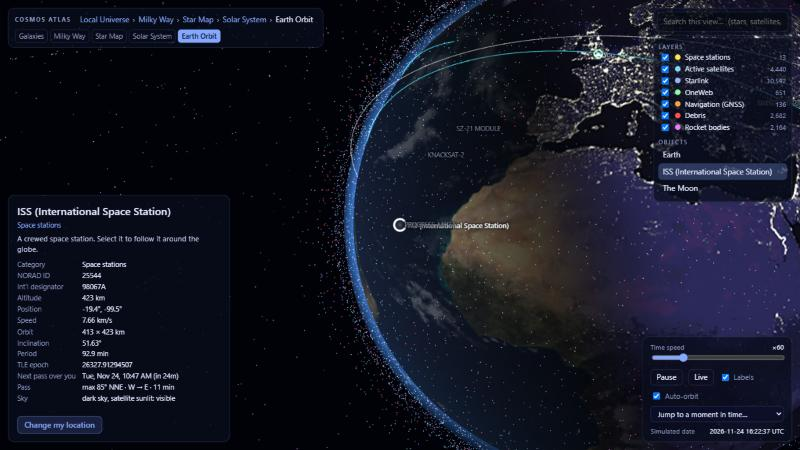
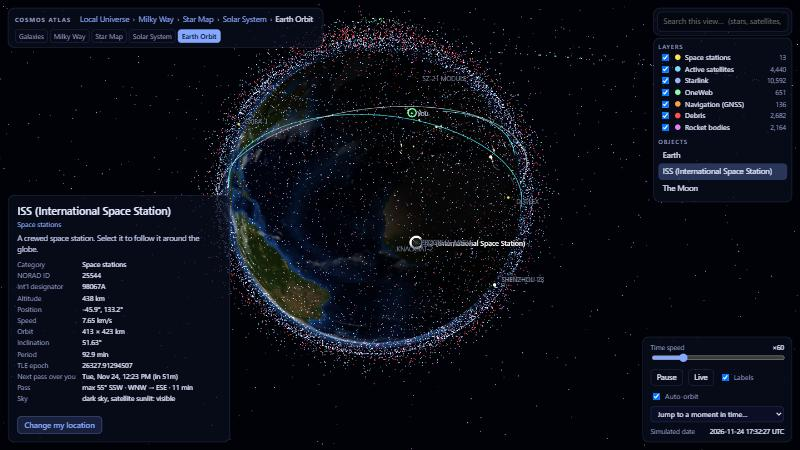
docs: credit NASA for the textures and refresh the Earth screenshot
The README no longer calls the textures unverified placeholders. The Earth
screenshot is retaken so it shows the new imagery.

diff --git a/README.md b/README.md
@@ -131,14 +131,15 @@ server at run time and cached locally.
 - Planet positions: JPL approximate Keplerian elements (1800-2050)
 - Constellation figures: Stellarium's "modern" sky culture
 - Satellite propagation: [satellite.js](https://github.com/shashwatak/satellite-js); rendering: [three.js](https://threejs.org)
-- The four Earth and Moon textures in `public/assets/tex/` were copied from the [three.js examples](https://github.com/mrdoob/three.js/tree/r160/examples/textures/planets).
-  three.js licenses its code under MIT but records no licence or source for these images, so their terms are
-  **unverified** and not covered by this repository's MIT licence. They are placeholders: if you are the rights
-  holder and want one removed, open an issue. The plan is to replace them with NASA public-domain or CC BY imagery.
+- Earth and Moon textures (`public/assets/tex/`) are processed NASA imagery: Blue Marble Next Generation and Black Marble
+  from NASA Visible Earth / Earth Observatory, an Earth cloud layer from NASA's Scientific Visualization Studio (item 3615),
+  and the LRO colour map from the SVS CGI Moon Kit (item 4720). NASA says texture maps made from its imagery are generally not
+  subject to copyright in the US; see [`CREDITS.md`](public/assets/tex/CREDITS.md) for exact files and processing.
+  This project is not affiliated with or endorsed by NASA.
 
 The data sources have their own terms of use. This project is not affiliated with any of them.
 
 ## License
 
 The code is [MIT](LICENSE) licensed. That covers this repository's source only: the data fetched at
-run time and the four placeholder textures keep their own, separate terms (see above).
+run time and the NASA-derived textures keep their own terms (see above).
